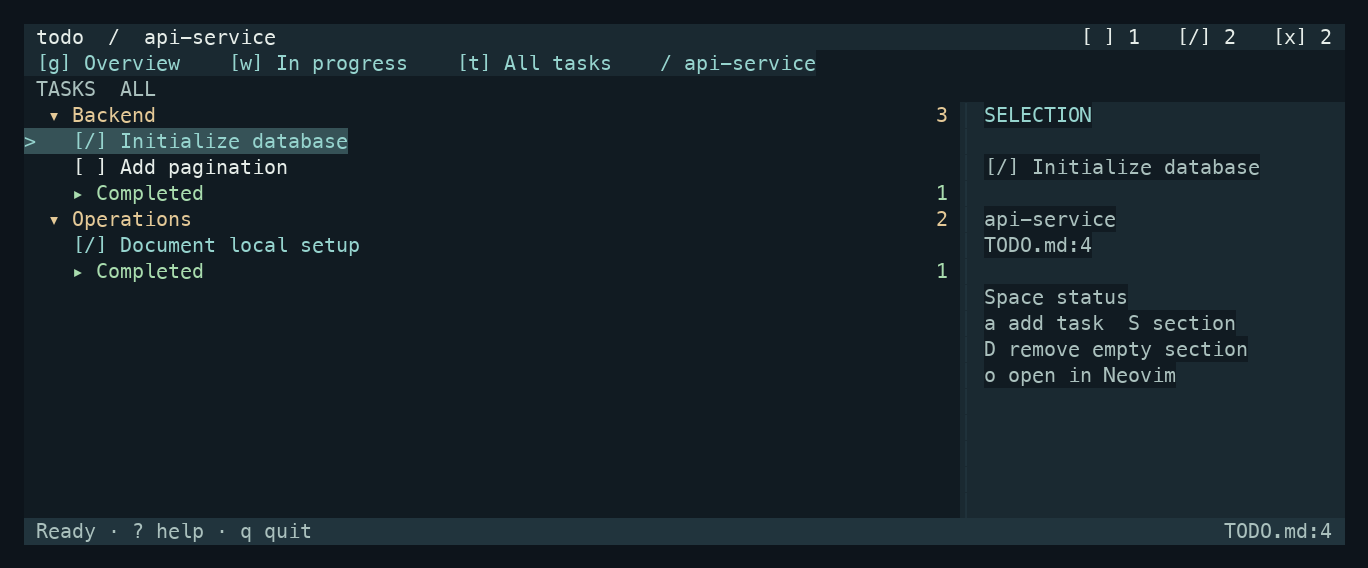
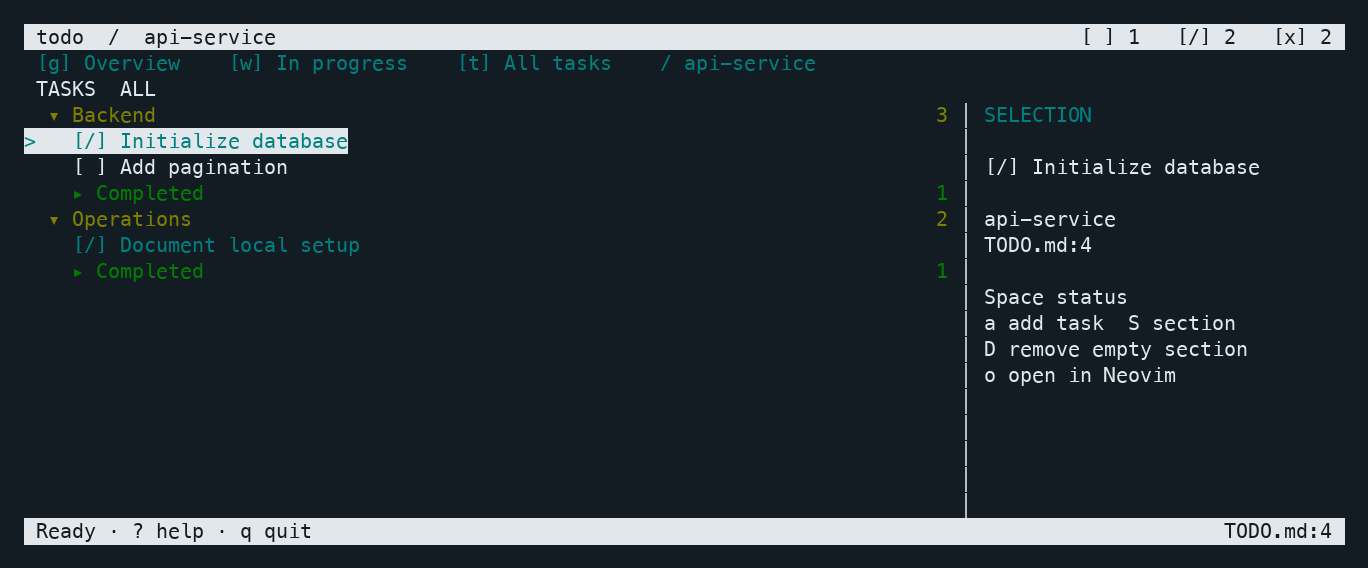
follow terminal colors in todo UI

diff --git a/src/app.ts b/src/app.ts
@@ -1,10 +1,16 @@
 import { basename } from "node:path";
-import { BoxRenderable, InputRenderable, InputRenderableEvents, TextRenderable, createCliRenderer, type CliRenderer, type KeyEvent } from "@opentui/core";
+import { BoxRenderable, InputRenderable, InputRenderableEvents, RGBA, TextAttributes, TextRenderable, createCliRenderer, type CliRenderer, type KeyEvent } from "@opentui/core";
 import { statusNames } from "./markdown";
 import { filters, TodoModel, type Dialog, type DisplayRow, type TaskRow } from "./model";
 import { clean, fit, pack, windowStart } from "./terminal";
 
-const color = { bg: "#111b22", rail: "#1a2931", surface: "#21343d", ink: "#e6ede9", muted: "#aac0bd", selected: "#365257", cyan: "#96d4ce", green: "#a9dcae", amber: "#e4c997", red: "#ffaaaa" };
+// Keep default foreground/background intent so light and dark terminal themes both work.
+// ANSI palette slots follow the terminal's own configured colors.
+const color = {
+  bg: RGBA.defaultBackground(), ink: RGBA.defaultForeground(),
+  muted: RGBA.defaultForeground(), cyan: RGBA.fromIndex(6), green: RGBA.fromIndex(2),
+  amber: RGBA.fromIndex(3), red: RGBA.fromIndex(1),
+};
 const HELP = [
   "j/k arrows move · Enter open/fold",
   "Tab switch navigation/list · p projects",
@@ -49,17 +55,19 @@ export class CoreApp {
     this.model = options.model ?? new TodoModel(local);
     this.onEditor = options.onEditor ?? (row => openInNeovim(renderer, row));
     this.root = new BoxRenderable(renderer, { id: "core-workspace", width: "100%", height: "100%", flexDirection: "column", backgroundColor: color.bg });
-    this.header = this.text(this.root, "", color.ink, color.rail);
-    this.nav = this.text(this.root, "", color.cyan, color.rail);
+    this.header = this.text(this.root);
+    this.header.attributes = TextAttributes.INVERSE;
+    this.nav = this.text(this.root, "", color.cyan);
     this.subhead = this.text(this.root, "", color.muted, color.bg);
     const body = new BoxRenderable(renderer, { id: "body", flexGrow: 1, flexDirection: "row", overflow: "hidden" });
     this.root.add(body);
     this.list = new BoxRenderable(renderer, { id: "list", flexGrow: 1, flexDirection: "column", overflow: "hidden" });
     body.add(this.list);
-    this.detail = new BoxRenderable(renderer, { id: "detail", width: 32, flexDirection: "column", backgroundColor: color.rail, border: ["left"], borderColor: color.surface, paddingLeft: 1 });
+    this.detail = new BoxRenderable(renderer, { id: "detail", width: 32, flexDirection: "column", backgroundColor: color.bg, border: ["left"], borderColor: color.muted, paddingLeft: 1 });
     body.add(this.detail);
     for (let i = 0; i < 12; i++) this.detailLines.push(this.text(this.detail));
-    this.footer = this.text(this.root, "", color.muted, color.surface);
+    this.footer = this.text(this.root);
+    this.footer.attributes = TextAttributes.INVERSE;
     renderer.root.add(this.root);
     this.unsubscribe = this.model.subscribe(() => this.paint());
     this.onKey = key => { if (this.key(key)) key.preventDefault(); };
@@ -116,7 +124,7 @@ export class CoreApp {
     if (model.view === "projects") this.paintProjects(); else this.paintTasks();
     const info = model.error ? `ERROR: ${model.message}` : model.message || (model.focus === "sidebar" ? "Tab tasks · j/k scope · Enter open" : "j/k move · Enter open/fold · a task · S section · f filter · ? help");
     this.footer.content = pack(` ${info}`, model.selected ? `${basename(model.selected.doc.path)}:${model.selected.task.line} ` : "q quit ", this.cols);
-    this.footer.fg = model.error ? color.red : color.muted;
+    this.footer.fg = model.error ? color.red : color.ink;
     this.paintDialog();
   }
   private paintProjects() {
@@ -124,14 +132,14 @@ export class CoreApp {
     const active = this.model.activeQueue;
     const projectHeight = Math.max(1, Math.min(projects.length, Math.floor(this.listRows * 0.55)));
     const start = windowStart(this.model.index, projects.length, projectHeight);
-    const lines: { content: string; fg?: string; bg?: string }[] = [];
+    const lines: { content: string; fg?: RGBA; selected?: boolean }[] = [];
     for (let i = start; i < Math.min(projects.length, start + projectHeight); i++) {
       const p = projects[i]!;
       const c = p.doc ? { " ": p.doc.tasks.filter(t => t.status === " ").length, "/": p.doc.tasks.filter(t => t.status === "/").length, x: p.doc.tasks.filter(t => t.status === "x").length } : null;
-      lines.push({ content: pack(`${i === this.model.index ? ">" : " "} ${p.name}`, c ? `${c[" "]}      ${c["/"]}      ${c.x}  ` : "unavailable ", this.listCols), fg: p.error ? color.red : color.ink, bg: i === this.model.index ? color.selected : color.bg });
+      lines.push({ content: pack(`${i === this.model.index ? ">" : " "} ${p.name}`, c ? `${c[" "]}      ${c["/"]}      ${c.x}  ` : "unavailable ", this.listCols), fg: p.error ? color.red : color.ink, selected: i === this.model.index });
     }
     if (!projects.length) lines.push({ content: this.model.projects.length ? " No matching projects · Esc clears search" : " No projects · todo add-project /path/to/project", fg: color.amber });
-    lines.push({ content: "─".repeat(this.listCols), fg: color.surface });
+    lines.push({ content: "─".repeat(this.listCols), fg: color.muted });
     lines.push({ content: pack(` IN PROGRESS  ${active.length}`, "w open ", this.listCols), fg: color.cyan });
     for (const row of active.slice(0, Math.max(0, this.listRows - lines.length))) lines.push({ content: fit(` [/] ${row.project.name}  /  ${row.task.text}`, this.listCols), fg: color.ink });
     if (!active.length) lines.push({ content: " Nothing active right now", fg: color.muted });
@@ -140,7 +148,7 @@ export class CoreApp {
   private paintTasks() {
     const nodes = this.model.displayRows;
     const start = windowStart(this.model.index, nodes.length, this.listRows);
-    const lines: { content: string; fg?: string; bg?: string }[] = [];
+    const lines: { content: string; fg?: RGBA; selected?: boolean }[] = [];
     for (let i = start; i < Math.min(nodes.length, start + this.listRows); i++) {
       const node = nodes[i]!;
       const mark = i === this.model.index ? ">" : " ";
@@ -151,16 +159,17 @@ export class CoreApp {
         fg = task.status === "/" ? color.cyan : task.status === "x" ? color.muted : color.ink;
       } else if (node.kind === "section") { text = pack(`${mark} ${node.collapsed ? "▸" : "▾"} ${node.title}`, `${node.count} `, this.listCols); fg = color.amber; }
       else { text = pack(`${mark}   ${node.collapsed ? "▸" : "▾"} Completed`, `${node.count} `, this.listCols); fg = color.green; }
-      lines.push({ content: fit(text, this.listCols), fg, bg: i === this.model.index ? color.selected : color.bg });
+      lines.push({ content: fit(text, this.listCols), fg, selected: i === this.model.index });
     }
     if (!nodes.length) lines.push({ content: fit(this.model.scope[0]?.error ? ` Cannot read TODO.md: ${this.model.scope[0]!.error}` : this.model.query || this.model.filter !== "all" ? " No matches · Esc clears filters" : " No tasks · S makes a section, a adds a task", this.listCols), fg: color.amber });
     this.renderLines(lines);
   }
-  private renderLines(lines: { content: string; fg?: string; bg?: string }[]) {
+  private renderLines(lines: { content: string; fg?: RGBA; selected?: boolean }[]) {
     this.ensureRows(Math.min(lines.length, this.listRows));
     for (let i = 0; i < Math.min(lines.length, this.listRows); i++) {
       const node = this.rowPool[i]!, line = lines[i]!;
-      node.content = line.content; node.fg = line.fg ?? color.ink; node.bg = line.bg ?? color.bg;
+      node.content = line.content; node.fg = line.fg ?? color.ink;
+      node.attributes = line.selected ? TextAttributes.INVERSE : 0;
     }
   }
   private hideDialog() {
@@ -173,11 +182,11 @@ export class CoreApp {
     const width = Math.min(68, this.cols - 4);
     if (!this.overlay || d !== this.dialogRef) {
       this.hideDialog(); this.dialogRef = d;
-      this.overlay = new BoxRenderable(this.renderer, { id: "dialog", position: "absolute", top: 3, left: Math.floor((this.cols - width) / 2), width, flexDirection: "column", border: true, borderColor: color.cyan, backgroundColor: color.rail, paddingX: 1 });
+      this.overlay = new BoxRenderable(this.renderer, { id: "dialog", position: "absolute", top: 3, left: Math.floor((this.cols - width) / 2), width, flexDirection: "column", border: true, borderColor: color.cyan, backgroundColor: color.bg, paddingX: 1 });
       this.root.add(this.overlay);
-      for (let i = 0; i < 8; i++) this.modalRows.push(this.text(this.overlay, "", color.ink, color.rail));
+      for (let i = 0; i < 8; i++) this.modalRows.push(this.text(this.overlay));
       if ("value" in d) {
-        this.input = new InputRenderable(this.renderer, { id: "dialog-input", width: width - 4, value: d.value, backgroundColor: color.surface, focusedBackgroundColor: color.surface, textColor: color.ink, cursorColor: color.cyan });
+        this.input = new InputRenderable(this.renderer, { id: "dialog-input", width: width - 4, value: d.value, backgroundColor: color.bg, focusedBackgroundColor: color.bg, textColor: color.ink, cursorColor: color.ink });
         this.overlay.add(this.input);
         this.input.on(InputRenderableEvents.INPUT, (value: string) => this.model.input(value));
         this.input.on(InputRenderableEvents.ENTER, (value: string) => this.model.submit(value));

diff --git a/tests/core.test.ts b/tests/core.test.ts
@@ -1,5 +1,6 @@
 import { afterEach, expect, test } from "bun:test";
 import { createTestRenderer, KeyCodes } from "@opentui/core/testing";
+import { TextAttributes } from "@opentui/core";
 import { mkdtempSync, realpathSync, readFileSync, rmSync, writeFileSync } from "node:fs";
 import { tmpdir } from "node:os";
 import { join } from "node:path";
@@ -29,6 +30,28 @@ test("Core retained tree renders local tasks, responds to navigation and resize"
     setup.resize(50, 12); await setup.renderOnce(); frame = setup.captureCharFrame();
     expect(frame).not.toContain("SELECTION"); expect(frame).toContain("Empty");
     expect(setup.captureSpans().cols).toBe(50);
+  } finally { setup.renderer.destroy(); }
+});
+
+test("terminal defaults and ANSI palette survive rendering and selection", async () => {
+  const { global } = fixture();
+  const setup = await createTestRenderer({ width: 80, height: 20, kittyKeyboard: true });
+  try {
+    new CoreApp(setup.renderer, undefined, { model: global }); await setup.renderOnce();
+    let frame = setup.captureSpans();
+    expect(frame.lines[0]!.spans[0]!.fg.intent).toBe("default");
+    expect(frame.lines[0]!.spans[0]!.bg.intent).toBe("default");
+    expect(frame.lines[1]!.spans[0]!.fg.intent).toBe("indexed");
+    expect(frame.lines[3]!.spans[0]!.attributes & TextAttributes.INVERSE).toBeTruthy();
+    global.allTasks(); await setup.renderOnce();
+    setup.mockInput.pressArrow("down"); await setup.renderOnce(); frame = setup.captureSpans();
+    const oldSelection = frame.lines.flatMap(line => line.spans).find(span => span.text.includes("Login"))!;
+    const newSelection = frame.lines.flatMap(line => line.spans).find(span => span.text.includes("Session"))!;
+    expect(oldSelection.attributes & TextAttributes.INVERSE).toBe(0);
+    expect(newSelection.attributes & TextAttributes.INVERSE).toBeTruthy();
+    setup.mockInput.pressKey("p"); await setup.renderOnce(); frame = setup.captureSpans();
+    const dialog = frame.lines.find(line => line.spans.some(span => span.text.includes("PROJECTS")))!;
+    expect(dialog.spans.some(span => span.bg.intent === "default")).toBe(true);
   } finally { setup.renderer.destroy(); }
 });
 

diff --git a/README.md b/README.md
@@ -6,7 +6,7 @@ The command is **`todo`**.
 
 ![todo showing an example project's tasks and selection inspector](assets/screenshot.png)
 
-*Screenshot generated from the included sample project using OpenTUI's native test renderer.*
+*Screenshot generated from the included sample project using OpenTUI's native test renderer and a dark terminal palette. Your terminal colors may differ.*
 
 ## Install
 
@@ -60,7 +60,7 @@ Tasks use `[ ]` for not started, `[/]` for in progress and `[x]` for completed. 
 
 Section removal is **empty-only**: tasks, notes, comments, code blocks and nested headings block it. The document title and implicit General group are protected. Writes use cooperative locks, atomic replacement and stale-file checks to avoid overwriting external changes.
 
-The layout fits compact terminals; at 104+ columns, an inspector shows the current selection. Completed tasks fold in the unfiltered view, while search and filters reveal matches. There is no automatic file watcher, undo, cloud sync or packaged standalone binary.
+The UI uses your terminal's default foreground/background and ANSI palette, so it follows light or dark terminal themes without an app setting. The layout fits compact terminals; at 104+ columns, an inspector shows the current selection. Completed tasks fold in the unfiltered view, while search and filters reveal matches. There is no automatic file watcher, undo, cloud sync or packaged standalone binary.
 
 ## Develop and test
 
